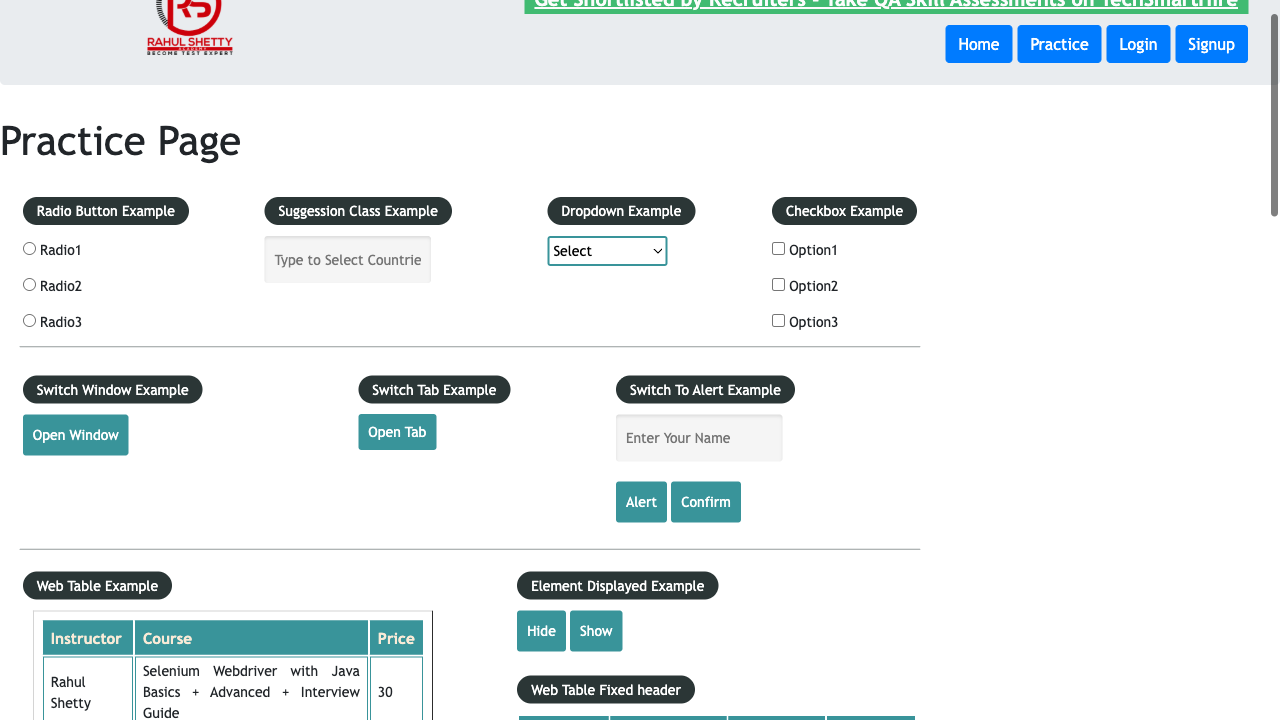
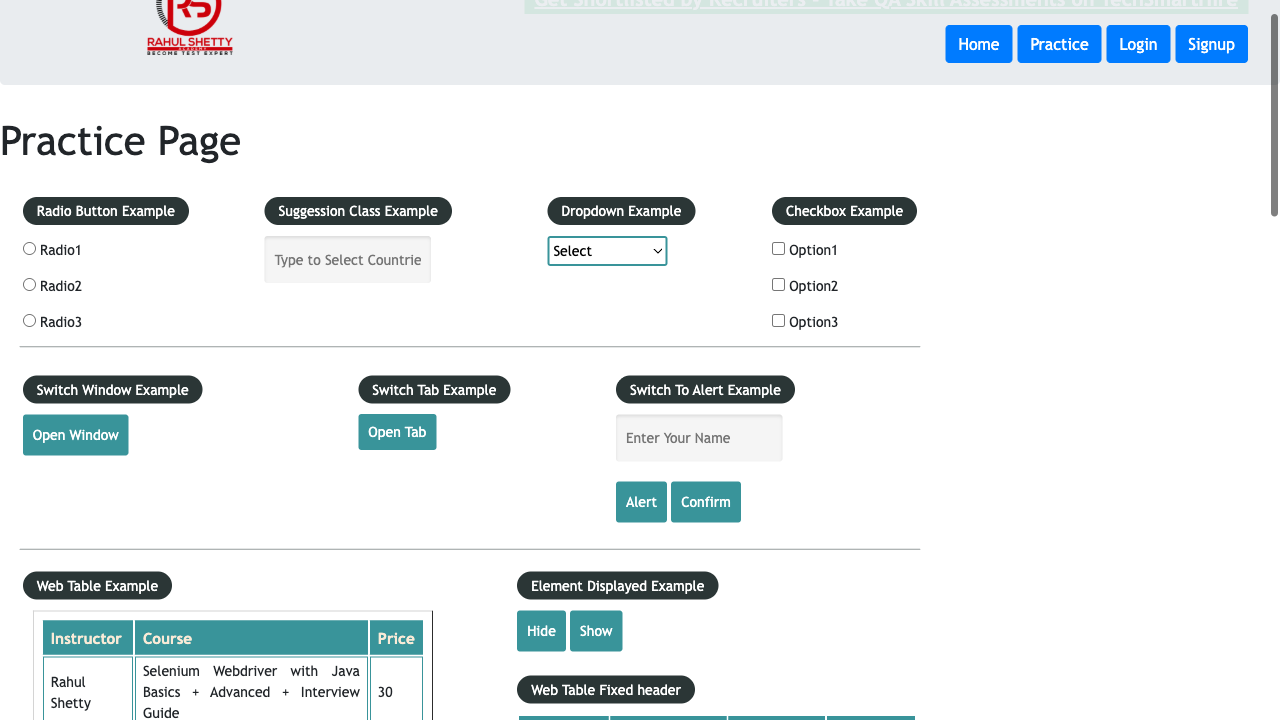
config update

Changed region(s): [[0.4062, 0.0, 1.0, 0.0306]]

diff --git a/tests/ClientApp_pageobject.spec.js b/tests/ClientApp_pageobject.spec.js
@@ -1,42 +1,60 @@
 const { test, expect } = require('@playwright/test');
+const {customtest} = require('../utils/test-base');
 const { POManager } = require('../pageobjects/POManager');
+// JSON --> String --> JS Object
+const dataSet = JSON.parse(
+    JSON.stringify(require('../utils/TestData.json'))
+);
 
-test.only('Web Client App login', async ({ page }) => {
+for (const data of dataSet) {
 
-    const poManager = new POManager(page);
+    test(`Web Client App login - ${data.email}`, async ({ page }) => {
 
-    const username = "kashyapking507@gmail.com";
-    const password = "Mano123@";
-    const productName = "ZARA COAT 3";
+        const poManager = new POManager(page);
 
-    // Login Page
-    const loginPage = poManager.getLoginPage();
-    await loginPage.goTo();
-    await loginPage.validlogin(username, password);
+        const loginPage = poManager.getLoginPage();
+        await loginPage.goTo();
+        await loginPage.validlogin(data.email, data.password);
 
-    // Dashboard Page
-    const dashboardPage = poManager.getDashBoardpage();
-    await dashboardPage.searchProductAddcart(productName);
-    await dashboardPage.navigatTocart();
+        const dashboardPage = poManager.getDashBoardpage();
+        await dashboardPage.searchProductAddcart(data.productName);
+        await dashboardPage.navigatTocart();
 
-    // Cart Page
-    const cartPage = poManager.getCartPage();
-    await cartPage.VerifyProductIsDisplayed(productName);
-    await cartPage.Checkout();
+        const cartPage = poManager.getCartPage();
+        await cartPage.VerifyProductIsDisplayed(data.productName);
+        await cartPage.Checkout();
 
-    // Orders Review Page
-    const ordersReviewPage = poManager.getOrdersReviewPage();
-    await ordersReviewPage.searchCountryAndSelect("ind", "India");
+        const ordersReviewPage = poManager.getOrdersReviewPage();
+        await ordersReviewPage.searchCountryAndSelect("ind", "India");
 
-    const orderId = await ordersReviewPage.SubmitAndGetOrderId();
-    console.log(orderId);
+        const orderId = await ordersReviewPage.SubmitAndGetOrderId();
 
-    // Orders History Page
-    await dashboardPage.navigateToOrders();
+        await dashboardPage.navigateToOrders();
 
-    const ordersHistoryPage = poManager.getOrdersHistoryPage();
-    await ordersHistoryPage.searchOrderAndSelect(orderId);
+        const ordersHistoryPage = poManager.getOrdersHistoryPage();
+        await ordersHistoryPage.searchOrderAndSelect(orderId);
 
-    expect(orderId.includes(await ordersHistoryPage.getOrderId())).toBeTruthy();
+        expect(orderId.includes(await ordersHistoryPage.getOrderId())).toBeTruthy();
+    });
 
-});
+
+
+customtest(`Client App login - ${data.email}`, async ({ page, testDataForOrder }) => {
+
+        const poManager = new POManager(page);
+
+        const loginPage = poManager.getLoginPage();
+        await loginPage.goTo();
+        await loginPage.validlogin(testDataForOrder.email, testDataForOrder.password);
+
+        const dashboardPage = poManager.getDashBoardpage();
+        await dashboardPage.searchProductAddcart(testDataForOrder.productName);
+        await dashboardPage.navigatTocart();
+
+        const cartPage = poManager.getCartPage();
+        await cartPage.VerifyProductIsDisplayed(testDataForOrder.productName);
+        await cartPage.Checkout();
+
+        });
+ 
+}

diff --git a/pageobjects/DashboardPage.js b/pageobjects/DashboardPage.js
@@ -10,18 +10,27 @@ class DashboardPage {
 
     async searchProductAddcart(productName) {
 
-        await this.productsText.first().waitFor();
-        const titles = await this.productsText.allTextContents();
-        console.log(titles);
+    await this.productsText.first().waitFor();
 
-        const count = await this.products.count();
-        for (let i = 0; i < count; ++i) {
-            if (await this.products.nth(i).locator("b").textContent() === productName) {
-                await this.products.nth(i).locator("text=Add To Cart").click();
-                break;
-            }
+    const count = await this.products.count();
+
+    for (let i = 0; i < count; ++i) {
+
+        if (await this.products.nth(i).locator("b").textContent() === productName) {
+
+            await this.products.nth(i)
+                .locator("text=Add To Cart")
+                .click();
+
+            // Wait until spinner disappears
+            await this.page.locator(".ng-animating").last().waitFor({
+                state: "hidden"
+            });
+
+            break;
         }
     }
+}
 
     async navigatTocart() {
         await this.cart.click();

diff --git a/playwright.config1.js b/playwright.config1.js
@@ -1,0 +1,47 @@
+// @ts-check
+import { defineConfig, devices } from '@playwright/test';
+
+
+
+/**
+ * @see https://playwright.dev/docs/test-configuration
+ */
+export default defineConfig({
+  testDir: './tests', // .test refer to the test files for specific file to run just add ./tests/file_name
+  retries: 1, // re-run the Failed test case one time , this is dynamic we can increase this like 1 to 2 or 10
+
+  timeout : 30*1000 , // 30 seconds for global timeout 
+  expect : {
+    timeout : 5000 , // 5 seconds for expect timeout 
+
+  },
+  reporter :'html', 
+  
+  projects : [
+    { 
+    name : 'safari',
+    use: {
+     browserName : 'webkit',
+     headless : false ,
+     screenshot:'on',
+     trace:'on', // ON/OFF
+     ...devices['iPhone 13'],
+  }
+},
+{
+   name :'chrome',
+   use : {
+     browserName : 'chromium',
+     headless : false ,
+     screenshot:'on',
+     video:'retain-on-failure', 
+     ignoreHTTPSErrors:true,
+     trace:'on', // ON/OFF
+     //viewport:{width:1280 , height:720},
+    //  ...devices[''],
+    }
+}
+  ]
+});
+
+

diff --git a/tests/MoreValidation.spec.js b/tests/MoreValidation.spec.js
@@ -1,4 +1,6 @@
 const {test ,expect} = require('@playwright/test');
+//test.describe.configure({mode:'parallel'});
+//test.describe.configure({mode:'serial'});
 
 test("Popup Validations" , async({page}) =>
 {
@@ -9,7 +11,7 @@ test("Popup Validations" , async({page}) =>
     await expect(page.locator("#displayed-text")).toBeVisible();
     await page.locator("#hide-textbox").click();
     await expect(page.locator("#displayed-text")).toBeHidden();
-    await page.pause();
+    //await page.pause();
     // Dialog Box Popup
     page.on('dialog' ,dialog => dialog.accept());
     await page.locator("#confirmbtn").click();

diff --git a/pageobjects/loginpage.js b/pageobjects/loginpage.js
@@ -12,8 +12,8 @@ class loginpage {
     }
 
     async validlogin(username, password) {
-        await this.username.fill(username);
-        await this.password.fill(password);
+        await this.username.type(username);
+        await this.password.type(password);
         await this.signInbutton.click();
         await this.page.waitForLoadState('networkidle'); 
     }

diff --git a/tests/NetworkTest.spec.js b/tests/NetworkTest.spec.js
@@ -1,5 +1,5 @@
 const {test , expect , request} = require('@playwright/test');
-const {APIUtils} = require('./utils/APIUtils');
+const {APIUtils} = require('../utils/APIUtils');
 
 const loginPayload = {userEmail: "kashyapking507@gmail.com" , userPassword: "Mano123@"};
 const orderPayload = {orders:[{country: "India", productOrderedId: "6960eac0c941646b7a8b3e68"}]};

diff --git a/tests/WebAPIpart1.spec.js b/tests/WebAPIpart1.spec.js
@@ -1,5 +1,5 @@
 const {test , expect , request} = require('@playwright/test');
-const {APIUtils} = require('./utils/APIUtils');
+const {APIUtils} = require('../utils/APIUtils');
 
 const loginPayload = {userEmail: "kashyapking507@gmail.com" , userPassword: "Mano123@"};
 const orderPayload = {orders:[{country: "India", productOrderedId: "6960eac0c941646b7a8b3e68"}]};

diff --git a/tests/demo.spec.js b/tests/demo.spec.js
@@ -2,7 +2,7 @@ const { test, expect } = require('@playwright/test');
 const { POManager } = require('../pageobjects/POManager');
 
 const dataset = JSON.parse(
-    JSON.stringify(require('./utils/data.json'))
+    JSON.stringify(require('../utils/TestData.json'))
 );
 
 test.beforeAll(async () => {

diff --git a/utils/test-base.js b/utils/test-base.js
@@ -1,0 +1,10 @@
+const base = require('@playwright/test');
+
+exports.customtest =  base.test.extend({
+    testDataForOrder :
+    {
+        email: "kashyapking507@gmail.com",
+        password: "Mano123@",
+        productName: "ZARA COAT 3"
+    } 
+}) 
